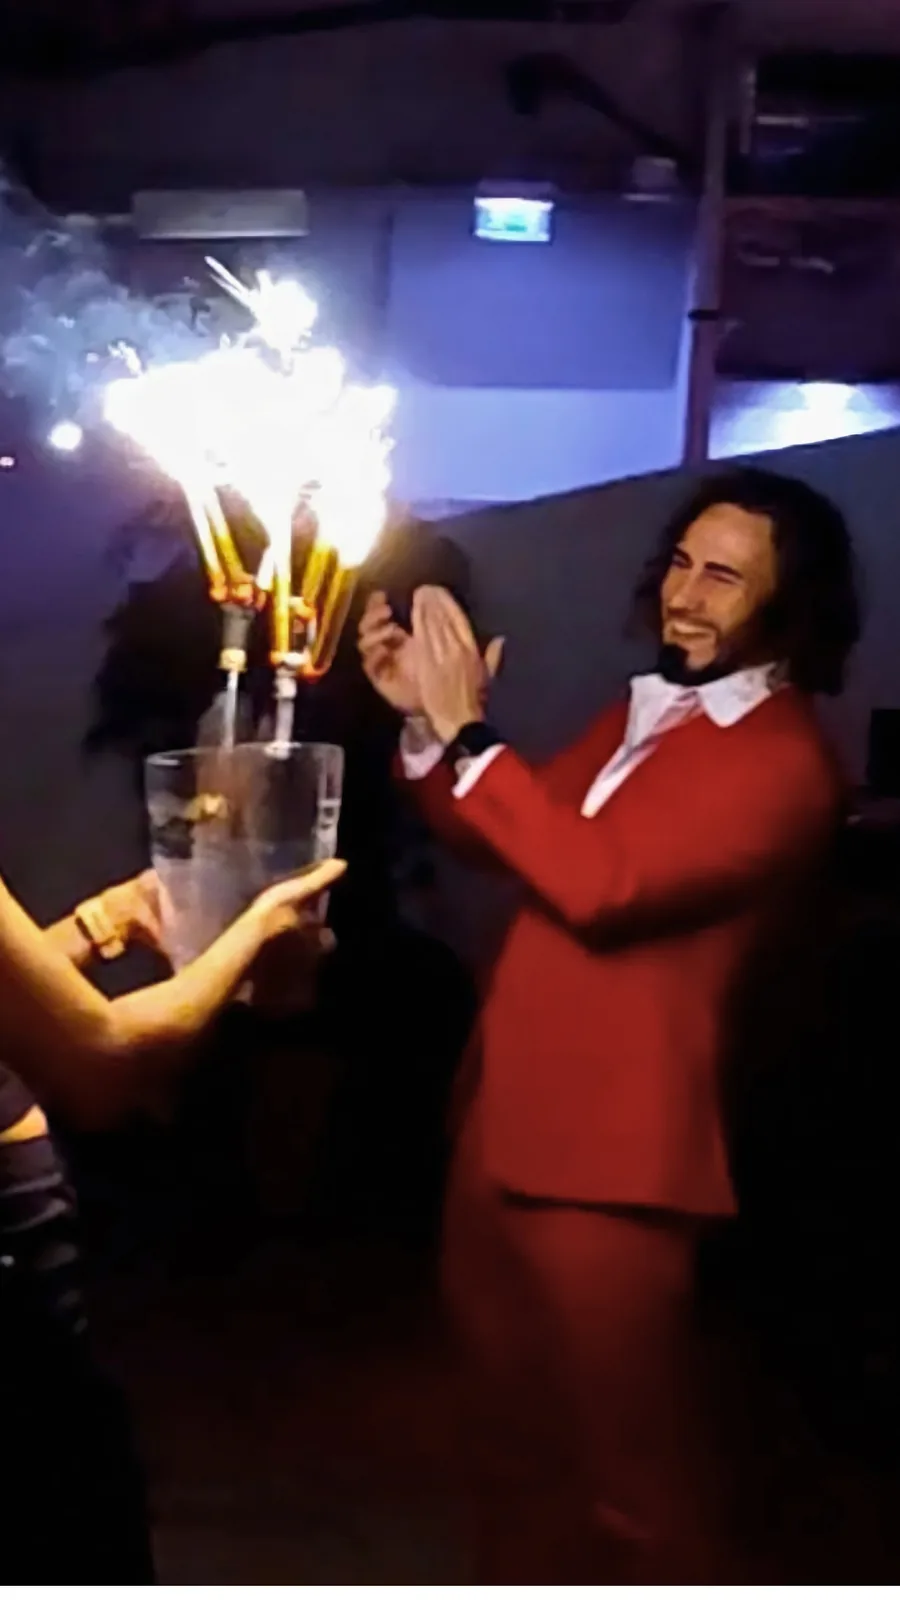
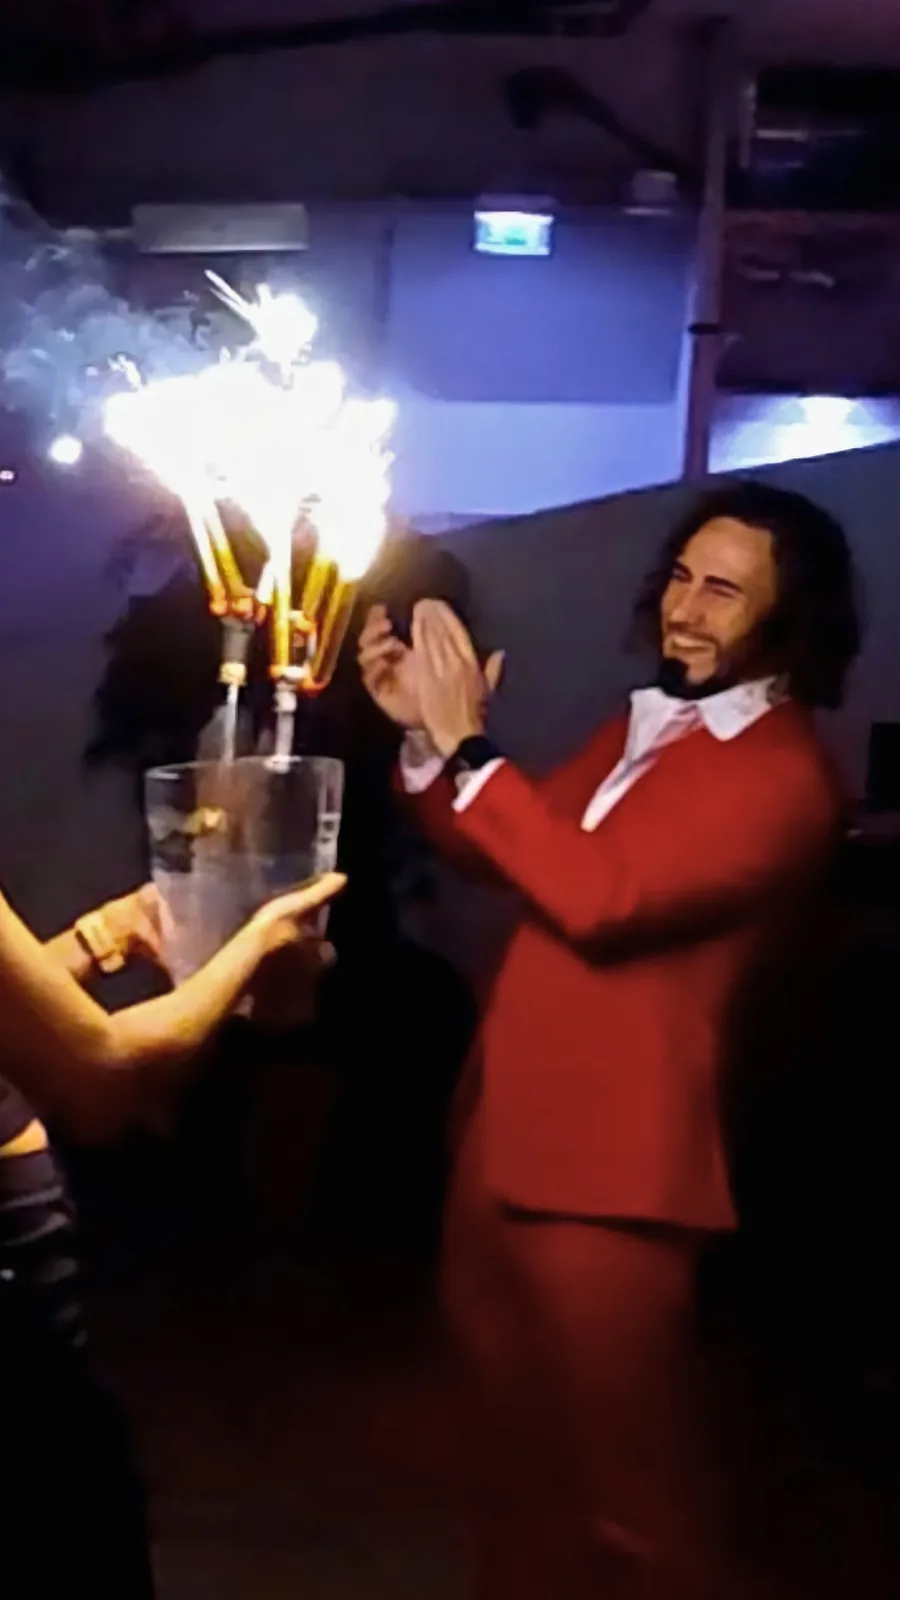
Rename to SBS no-profit association and replace Bachata Club Nights photo

diff --git a/index.html b/index.html
@@ -3,8 +3,8 @@
   <head>
     <meta charset="UTF-8" />
     <meta name="viewport" content="width=device-width, initial-scale=1.0" />
-    <title>SBS no profit foundation</title>
-    <meta name="description" content="SBS ry (Simon Bachata Sensual) – a no profit foundation for Bachata Sensual in Helsinki: parties, regular classes and private classes." />
+    <title>SBS no-profit association</title>
+    <meta name="description" content="SBS ry (Simon Bachata Sensual) – a no-profit association for Bachata Sensual in Helsinki: parties, regular classes and private classes." />
     <link rel="stylesheet" href="style.css" />
     <link rel="icon" href="favicon.ico" type="image/x-icon" />
     <link rel="preconnect" href="https://fonts.googleapis.com">
@@ -20,14 +20,14 @@
       <a href="classes.html" class="header-link">Regular classes</a>
     </header>
     <h1 class="dancing-title">
-      <span class="text-style1">SBS no profit foundation</span>
+      <span class="text-style1">SBS no-profit association</span>
     </h1>
 
     <section class="split-section">
       <div class="split-text">
         <!-- DRAFT: SBS ry description – to be confirmed by Simon -->
         <p>
-          SBS ry (Simon Bachata Sensual) is a no profit foundation born to grow the Bachata Sensual community in Helsinki.
+          SBS ry (Simon Bachata Sensual) is a no-profit association born to grow the Bachata Sensual community in Helsinki.
         </p>
         <p>
           What started in the summer of 2025 as free outdoor classes in the park has become a community of dancers who meet every week to learn, connect and have fun together.
